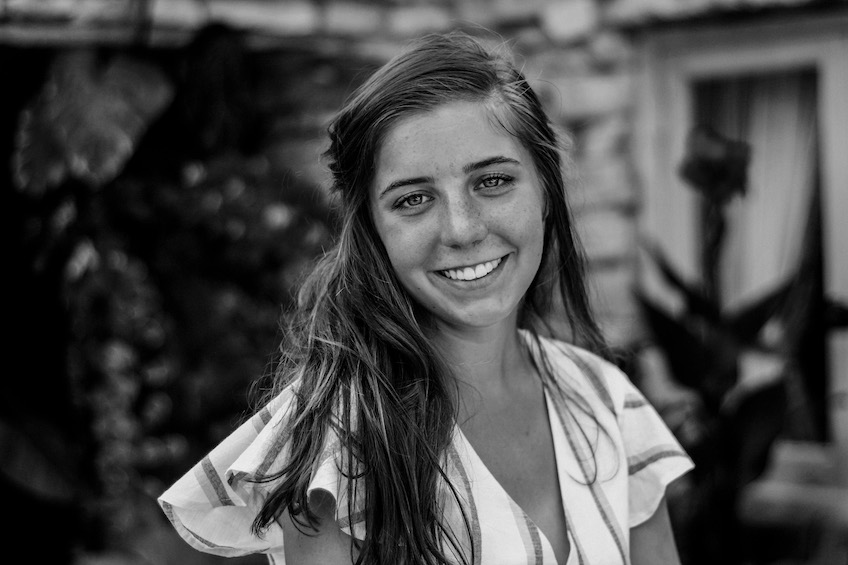
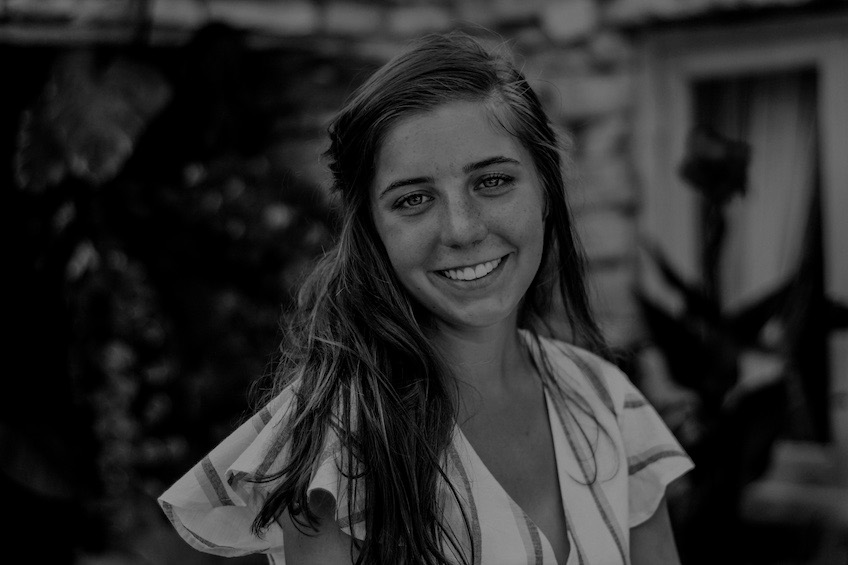
ui changes throughout site
edited background image-- to make the text overlay pop

changed the opacity on several paragraphs below titles to create heirarcy

changed to a lighter background color on last section on ux page

diff --git a/ux.html b/ux.html
@@ -34,7 +34,7 @@
         </div>
     </div>
     <div class="belowSmallerSection">
-        <p>Although my method was a little scattered, the small amount of time that I took to focus on user experience brought many changes to my site. <a href="#designChanges" class="moreInfoLink">Click here to read more!</a></p>
+        <p style="opacity: 60%;">Although my method was a little scattered, the small amount of time that I took to focus on user experience brought many changes to my site. <a href="#designChanges" class="moreInfoLink">Click here to read more!</a></p>
     </div>
     <div id="my process">
         <div class="myProcessTitle">
@@ -44,13 +44,13 @@
         </div>
         <div class="stepOne">
             <h2>Step 1:<b> User Research</b></h2>
-            <p style="font-size: small; line-height: 20px;">DISCLAIMER: please take this with a grain of salt [or grand assualt as I used to say before someone brought my incorrect use of the idiom to my attention]...anyway I simply looked into articles about what employers really look for/ what people honestly don't want to see on a portfolio site to answer some of my questions about user's interests.</p>
+            <p style="font-size: small; line-height: 20px; opacity: 60%;">DISCLAIMER: please take this with a grain of salt [or grand assualt as I used to say before someone brought my incorrect use of the idiom to my attention]...anyway I simply looked into articles about what employers really look for/ what people honestly don't want to see on a portfolio site to answer some of my questions about user's interests.</p>
             <h2>Who are they?</h2>
-            <p>Potential employers/ recruiters/ fellow designers</p>
+            <p style="opacity: 60%;">Potential employers/ recruiters/ fellow designers</p>
             <h2>What are they looking for?</h2>
-            <p>What I specialize in, my skills, inspiration, how to contact me</p>
+            <p style="opacity: 60%;">What I specialize in, my skills, inspiration, how to contact me</p>
             <h2>What are their expectations?</h2>
-            <p>No information overload, insight into my personality, the purpose of my websight</p>
+            <p style="opacity: 60%;">No information overload, insight into my personality, the purpose of my websight</p>
         </div>
         <div>
             <h2 class="stepTwo">Step 2:<b> User Personas</b></h2>
@@ -59,13 +59,13 @@
                     <img src="jurica-koletic-7YVZYZeITc8-unsplash.jpg">
                     <h3>Derren Olsen</h3>
                     <h3>36 · Pittsburgh, PA</h3>
-                    <p style="line-height: 30px; text-align: left;">Derren is a recruiter for a small marketing firm out of Pittsburgh and lives with his girlfriend and two cats. He is looking to expand his company's Research and Development department with new talent in hopes of increasing customer retention and reduce development time. This isn't Derren's only project right now, so he gets easily frusturated when websites have a slow download time along with poor communication throughout the site. If he can't get a feel about the author of the website or get in touch easily, he moves onto the next candidate. </p>
+                    <p style="line-height: 40px; text-align: left; opacity: 60%;">Derren is a recruiter for a small marketing firm out of Pittsburgh and lives with his girlfriend and two cats. He is looking to expand his company's Research and Development department with new talent in hopes of increasing customer retention and reduce development time. This isn't Derren's only project right now, so he gets easily frusturated when websites have a slow download time along with poor communication throughout the site. If he can't get a feel about the author of the website or get in touch easily, he moves onto the next candidate. </p>
                 </div>
                 <div class="individualPersonas">
                     <img src="michael-dam-mEZ3PoFGs_k-unsplash.jpg">
                     <h3>Annie Walters</h3>
                     <h3>38 · Des Moines, IA</h3>
-                    <p style="line-height: 30px; text-align: left;">Annie is currently a flight attendant interested in making a career change- all of the travel is starting to lose it's appeal, and she would love to find a job that allows her to work from home. Annie has always had a passion for design, so she has decided to jump into building her own portfolio and is seeking out ideas from other peers. She immediatley clicks out of websites that aren't aesthetically pleasing and are difficult to navigate. While her goal is to get inspiration, she would also love to start building relationships within the design community.</p>
+                    <p style="line-height: 40px; text-align: left; opacity: 60%;">Annie is currently a flight attendant interested in making a career change- all of the travel is starting to lose it's appeal, and she would love to find a job that allows her to work from home. Annie has always had a passion for design, so she has decided to jump into building her own portfolio and is seeking out ideas from other peers. She immediatley clicks out of websites that aren't aesthetically pleasing and are difficult to navigate. While her goal is to get inspiration, she would also love to start building relationships within the design community.</p>
                 </div>
             </div>
         </div>

diff --git a/index.html b/index.html
@@ -7,7 +7,7 @@
     <title>tessaschwarzentraub</title>
 </head>
 <body style="margin: 0; width: 100%;">
-    <div style="background-image: url('portfoliopicture.jpeg'); background-repeat: no-repeat; background-size: cover; height: 700px; filter: brightness(60%);">
+    <div style="background-image: url('portfoliopicture.jpeg'); background-repeat: no-repeat; background-size: cover; height: 700px;">
         <div class="navbar">
             <a href="#about" style="padding: 10px; text-decoration: none;">About</a>
             <a href="#resume" style="padding: 10px; text-decoration: none;">Resume</a>
@@ -38,7 +38,7 @@
     <div>
         <div id="about" class="about">
             <h1> a little about me</h1>
-            <p style="font-family: 'Montserrat', sans-serif; line-height: 30px;">I am a student at Southern Illinois University Edwardsville, studying marketing and german with potential focuses in sociology and psychology.
+            <p style="font-family: 'Montserrat', sans-serif; line-height: 40px;">I am a student at Southern Illinois University Edwardsville, studying marketing and german with potential focuses in sociology and psychology.
                 I have recently been introduced to the tech industry during my time as a coding fellow at Less Annoying CRM, a small start-up in St. Louis, MO. 
                 The fellowship program at LACRM allowed me to explore front-end development, web design, and UI/UX design- as well as simply obtaining a better understanding 
                 of the tech industry in general. 
@@ -94,8 +94,8 @@
             </div>
             <div class="smallersection">
                 <h2 class="belowheading">Professional Skills</h2>
-                    <div style="display: flex; justify-content: space-between;"><p>HMTL5/CSS</p><progress max="100" value="50"></progress></div>
-                    <div style="display: flex; justify-content: space-between;"><p>JavaScript</p><progress max="100" value="10"</progress></progress></div>
+                    <div style="display: flex; justify-content: space-between;"><p>HMTL5/CSS</p><progress max="100" value="80"></progress></div>
+                    <div style="display: flex; justify-content: space-between;"><p>JavaScript</p><progress max="100" value="30"</progress></progress></div>
                     <div style="display: flex; justify-content: space-between;"><p>Figma</p><progress max="100" value="40"</progress></progress></div>
                     <div style="display: flex; justify-content: space-between;"><p>Webflow</p><progress max="100" value="20"</progress></progress></div>
             </div>
@@ -119,16 +119,16 @@
             <div class="smallersection">
                 <h2 class="belowheading">Experience</h2>
                     <p><b>Student Intern- </b><i>Caterpillar Inc.</i>   Morton, IL</p>
-                        <p style="font-size: 14px;">&nbsp;&nbsp;&nbsp;processed D&D invoices, manual data entry</p>
+                        <p style="opacity: 70%;">&nbsp;&nbsp;&nbsp;processed D&D invoices, manual data entry</p>
                     <p><b>Coding Fellow- </b><i>Less Annoying CRM</i>   St. Louis, MO</p>
-                        <p style="font-size: 14px;">&nbsp;&nbsp;&nbsp;developed understanding of HTML, CSS, JS</p>
+                        <p style="opacity: 70%;">&nbsp;&nbsp;&nbsp;developed understanding of HTML, CSS, JS</p>
                     <p><b>Undergraduate Research Assistant- </b><i>SIUE</i>   Edwardsville, IL</p>
-                        <p style="font-size: 14px;">&nbsp;&nbsp;&nbsp;study occupational licensure processes/ impact on minority groups</p>
+                        <p style="opacity: 70%;">&nbsp;&nbsp;&nbsp;study licensure processes/ impact on minority groups</p>
             </div>
             <div class="smallersection">
                 <h2 class="belowheading">Awards</h2><br>
-                    <h3>Meridian Scholarship </h3><p>&nbsp;&nbsp;&nbsp;full tuition/ housing, 2019-2023</p>
-                    <h3>Distinguished Student in German Languge </h3><p><i>&nbsp;&nbsp;&nbsp;German American Heritage Society</i> , 2020</p>
+                    <h3>Meridian Scholarship </h3><p style="opacity: 70%;">&nbsp;&nbsp;&nbsp;full tuition/ housing, 2019-2023</p>
+                    <h3>Distinguished Student in German Languge </h3><p style="opacity: 70%;"><i>&nbsp;&nbsp;&nbsp;German American Heritage Society</i> , 2020</p>
             </div>
             <div class="smallersection">
                 <h2 class="belowheading">References</h2>

diff --git a/portfolio.css b/portfolio.css
@@ -62,7 +62,7 @@
   .individualicon:hover {color: #FFCACA}
 
   .title {
-    color: white;
+    color: rgb(228, 228, 228);
     text-align: center;
     padding-top: 100px;
     font-family: 'Roboto Mono', monospace;
@@ -79,7 +79,7 @@
     opacity: 1;
   }
 .subtitle {
-  color: white;
+  color: rgb(190, 190, 190);
   text-align: center;
   font-family: 'Montserrat', sans-serif;
   font-size: 25px;
@@ -104,7 +104,7 @@
 /*About section*/
 
 .about {
-  margin: 200px 300px 100px 300px;
+  margin: 200px 350px 100px 350px;
   font-family: 'Roboto Mono', monospace;
 }
 

diff --git a/ux.css b/ux.css
@@ -131,7 +131,7 @@ img {
   width: 30%;
 }
 .lastSection {
-  background-color: #DFDFDF;
+  background-color: #eeeeee;
 }
 li {
     font-family: 'Montserrat', sans-serif;
